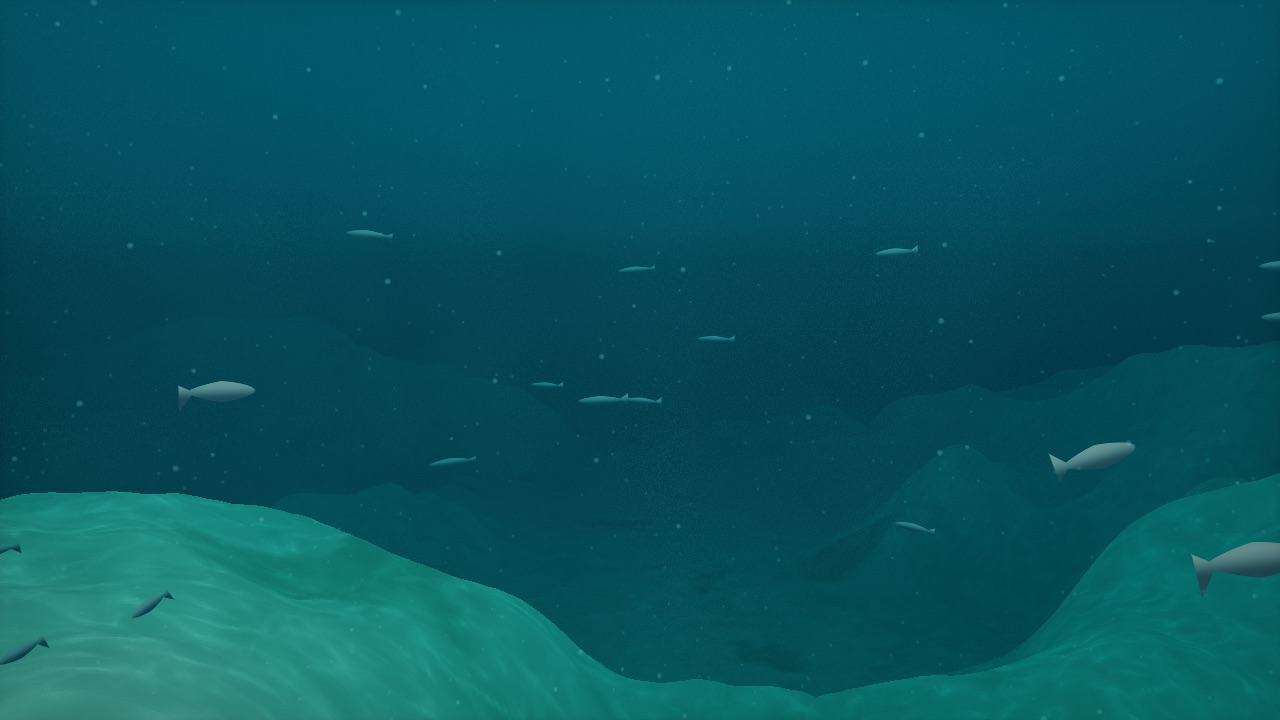
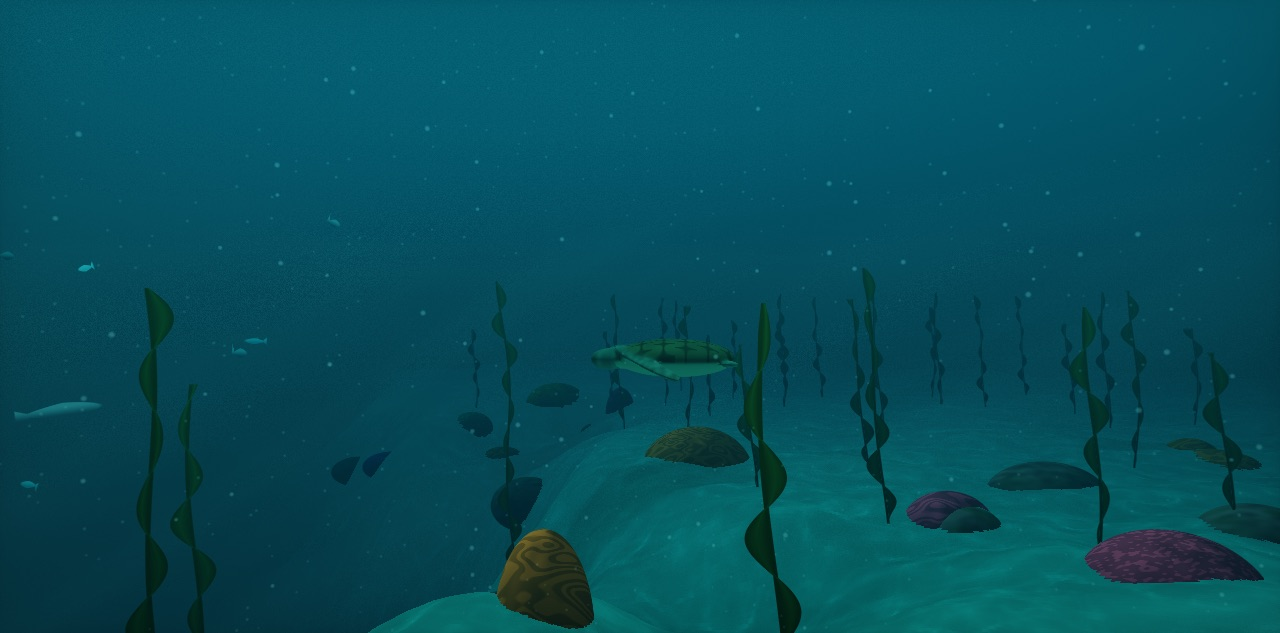
New underwater screenshot with kelp, coral and a turtle

diff --git a/README.md b/README.md
@@ -12,7 +12,7 @@ A real-time ocean you can sail, fly over and dive into, right in the browser. Ev
 |:---:|:---:|
 | ![A sunny day with clear turquoise water](docs/sunny.jpg) | ![A storm at sea with rain and a lightning strike](docs/storm.jpg) |
 | Sunny day | Storm with lightning |
-| ![A starry night with the Milky Way and a half moon](docs/night-sky.jpg) | ![Underwater, with fish over a sandy seafloor](docs/underwater.jpg) |
+| ![A starry night with the Milky Way and a half moon](docs/night-sky.jpg) | ![Underwater: kelp, coral, a sea turtle and fish](docs/underwater.jpg) |
 | Night sky | Underwater |
 | ![The lighthouse island at twilight with its beams sweeping](docs/lighthouse.jpg) | |
 | Lighthouse at twilight | |
